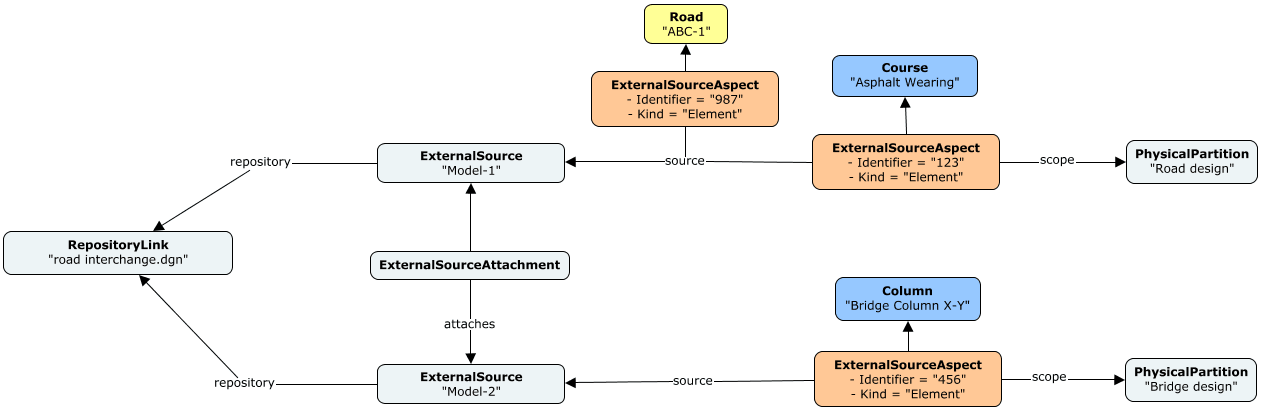
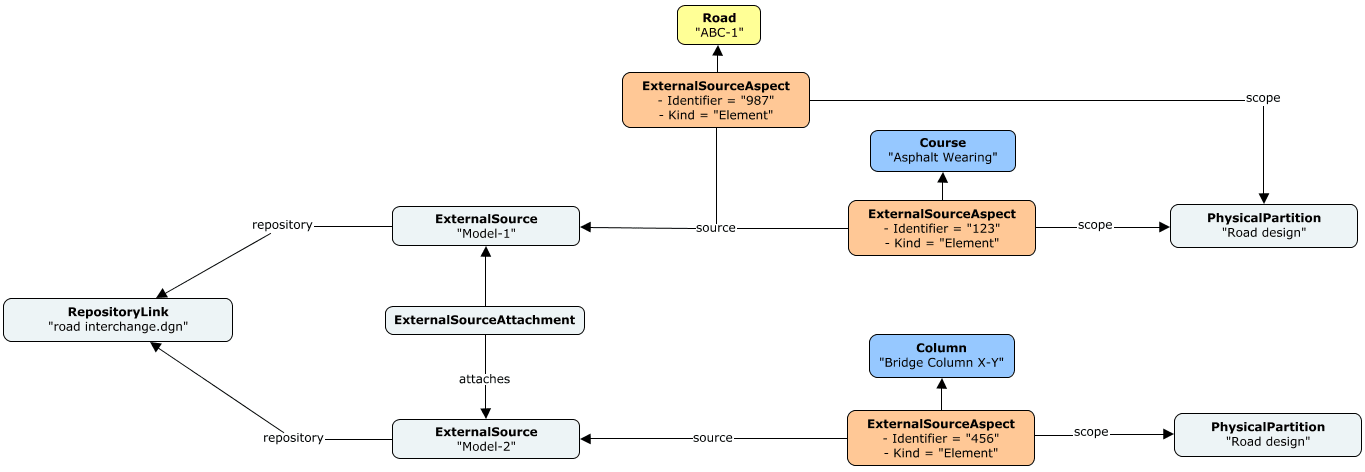
BIS docs - enhancements (#4678)
* Tweaks to description of details for ExternalSourceAspect properties.

* Improve images involving SynchronizationConfigLink.

* Enable link to DocumentMetadata docs from BIS guide.

* Further compress images.

* Address image mix-up.

diff --git a/docs/bis/domains/Provenance-in-BIS.md b/docs/bis/domains/Provenance-in-BIS.md
@@ -38,15 +38,15 @@ Provenance for a specific Element is captured in terms of:
 
 - An `Identifier` in the source repository (required).
 - A `Kind` of object within the source repository.
-- A reference to another Element that represents a `Scope` in which the combination of `Identifier` and `Kind` is unique. This referenced Element is typically a [RepositoryLink](#repositorylink) or an [InformationPartitionElement](./BisCore.ecschema.md#informationpartitionelement).
+- A reference to another Element that represents a `Scope` in which the combination of `Identifier` and `Kind` is *typically* unique. This referenced Element is usually a [RepositoryLink](#repositorylink) or an [InformationPartitionElement](./BisCore.ecschema.md#informationpartitionelement). Note that uniqueness among these three attributes in light of a single Element is not enforced by BIS repositories.
 - A reference to an [ExternalSource](#externalsource) from which the Element originated (required).
 - An optional `Version` of the Element's data captured in the BIS repository.
 - An optional `Checksum` - a cryptographic hash (any algorithm) - of the Element's data captured in the BIS repository.
 - Optional `JsonProperties` in case additional provenance-related attributes need to be captured.
 
-This provenance properties are very important during data-synchronization workflows. Each data-synchronizer needs to decide what values from entities in the external source to capture in the aforementioned properties. It is recommended that data-synchronizers assign not-null values to `Identifier`, `Kind` and `Scope` since they are targeted by aspect-finding-APIs in iTwin.js.
+This provenance properties are very important during data-synchronization workflows. Each data-synchronizer needs to decide what values from entities in the external source to capture in the aforementioned properties. Chosen values need to be sufficient in order to match Elements in an iModel with entities in its external source and efficiently detect changes in the latter that need to be synchronized in the former. It is recommended that data-synchronizers assign not-null values to `Identifier`, `Kind` and `Scope` since they are targeted by aspect-finding-APIs in iTwin.js.
 
-Note that an Element can own more than one `ExternalSourceAspect` if its provenance is associated to multiple source repositories or multiple entities in one external repository. Furthermore, `ExternalSourceAspect`s with the same combination of `Identifier`, `Kind` and `Scope` are allowed on the same Element. Data-synchronizers can use the `JsonProperties` attribute of each `ExternalSourceAspect` in order to differenciate their provenance, if needed.
+Note that an Element can own more than one `ExternalSourceAspect` if its provenance is associated to multiple source repositories or multiple entities in one external repository. Furthermore, `ExternalSourceAspect`s with the same combination of `Identifier`, `Kind` and `Scope` are allowed on the same Element. In those cases, data-synchronizers can use the `JsonProperties` attribute of each `ExternalSourceAspect` in order to differenciate their provenance, if needed.
 
 The following instance diagram shows an example of three elements synchronized from an external repository consisting of a single Dgn file containing two Dgn models. See [Instance-diagram Conventions](../guide/references/instance-diagram-conventions.md) for details about the conventions used.
 

diff --git a/docs/bis/domains/common-domains.md b/docs/bis/domains/common-domains.md
@@ -8,9 +8,7 @@ The following domains lay out the [Common layer](../guide/intro/bis-organization
 
 ### [DistributionSystems](./DistributionSystems.ecschema.md)
 
-<!-- TODO: Enable once DocumentMetadata schema documentation is available
 ### [DocumentMetadata](./DocumentMetadata.ecschema.md)
--->
 
 <!-- TODO: Enable once Grids schema is released
 ### [Grids](./Grids.ecschema.md)
